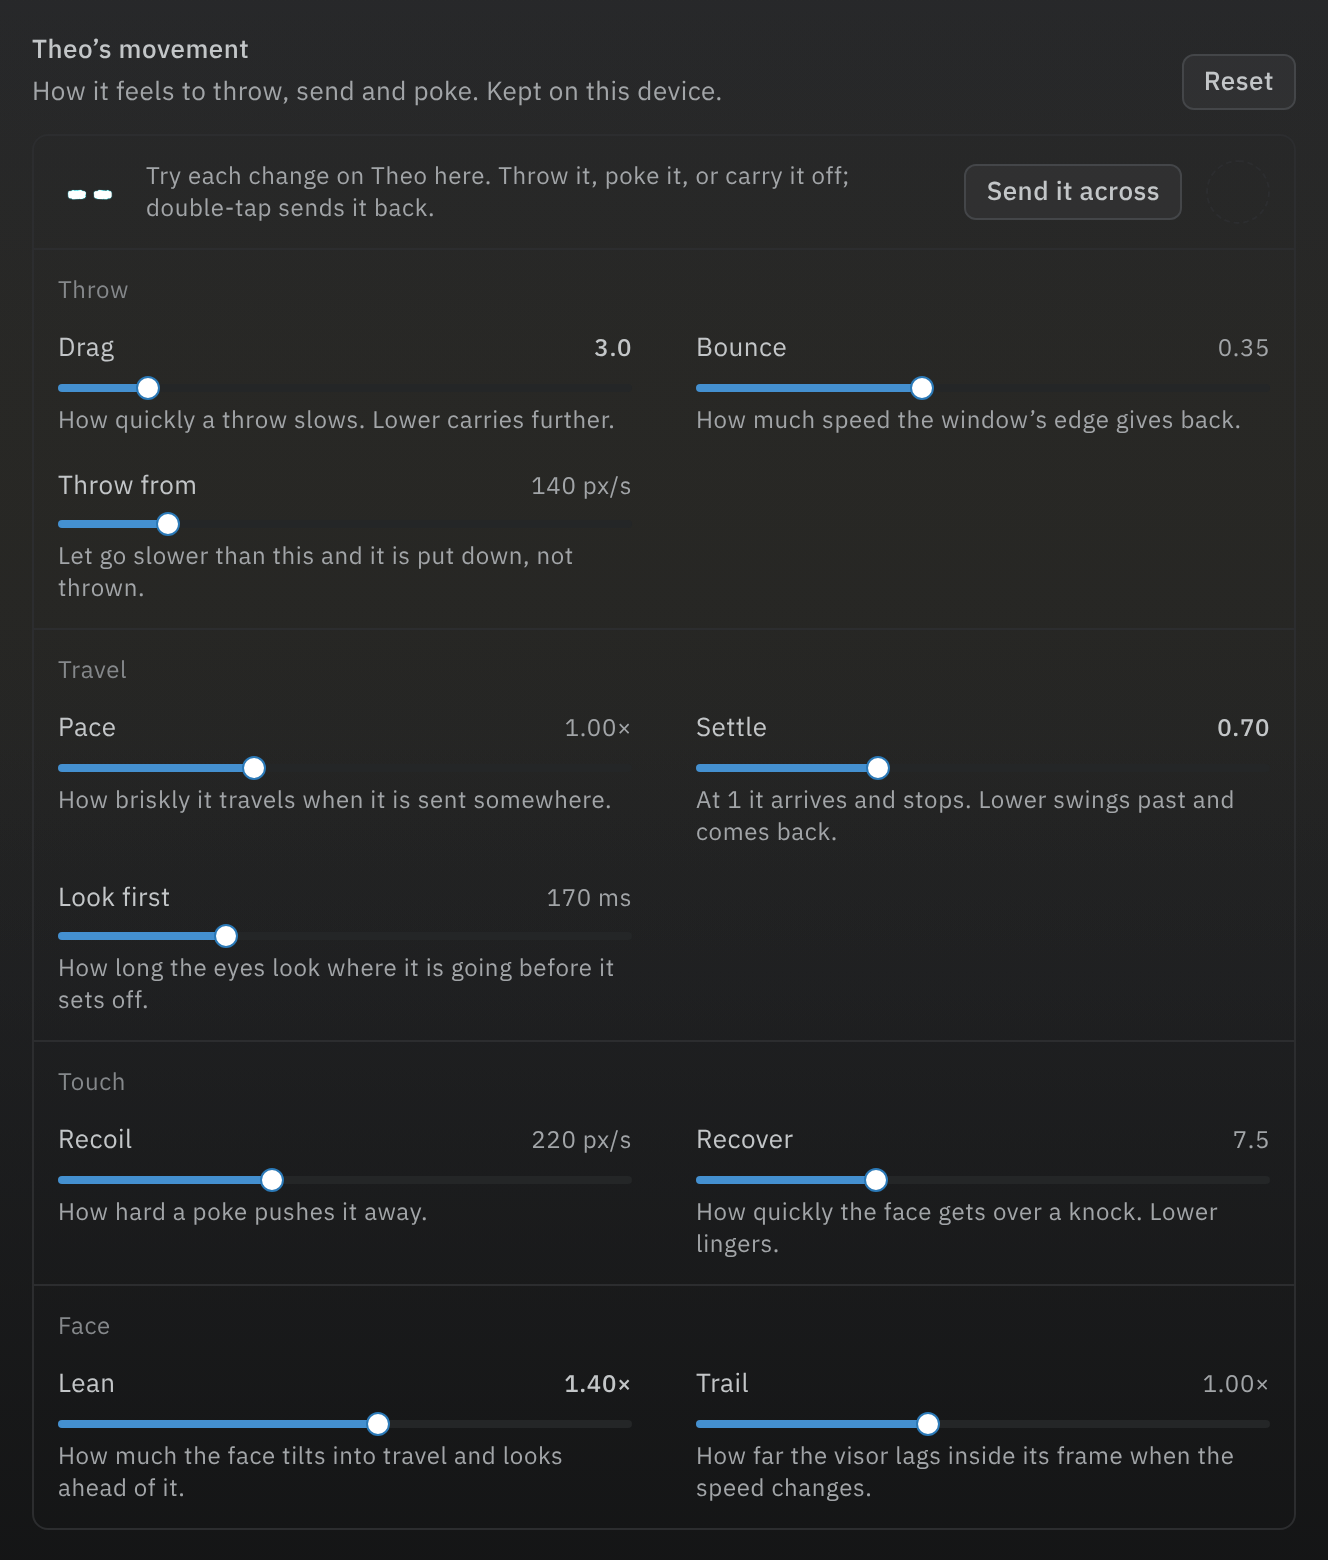
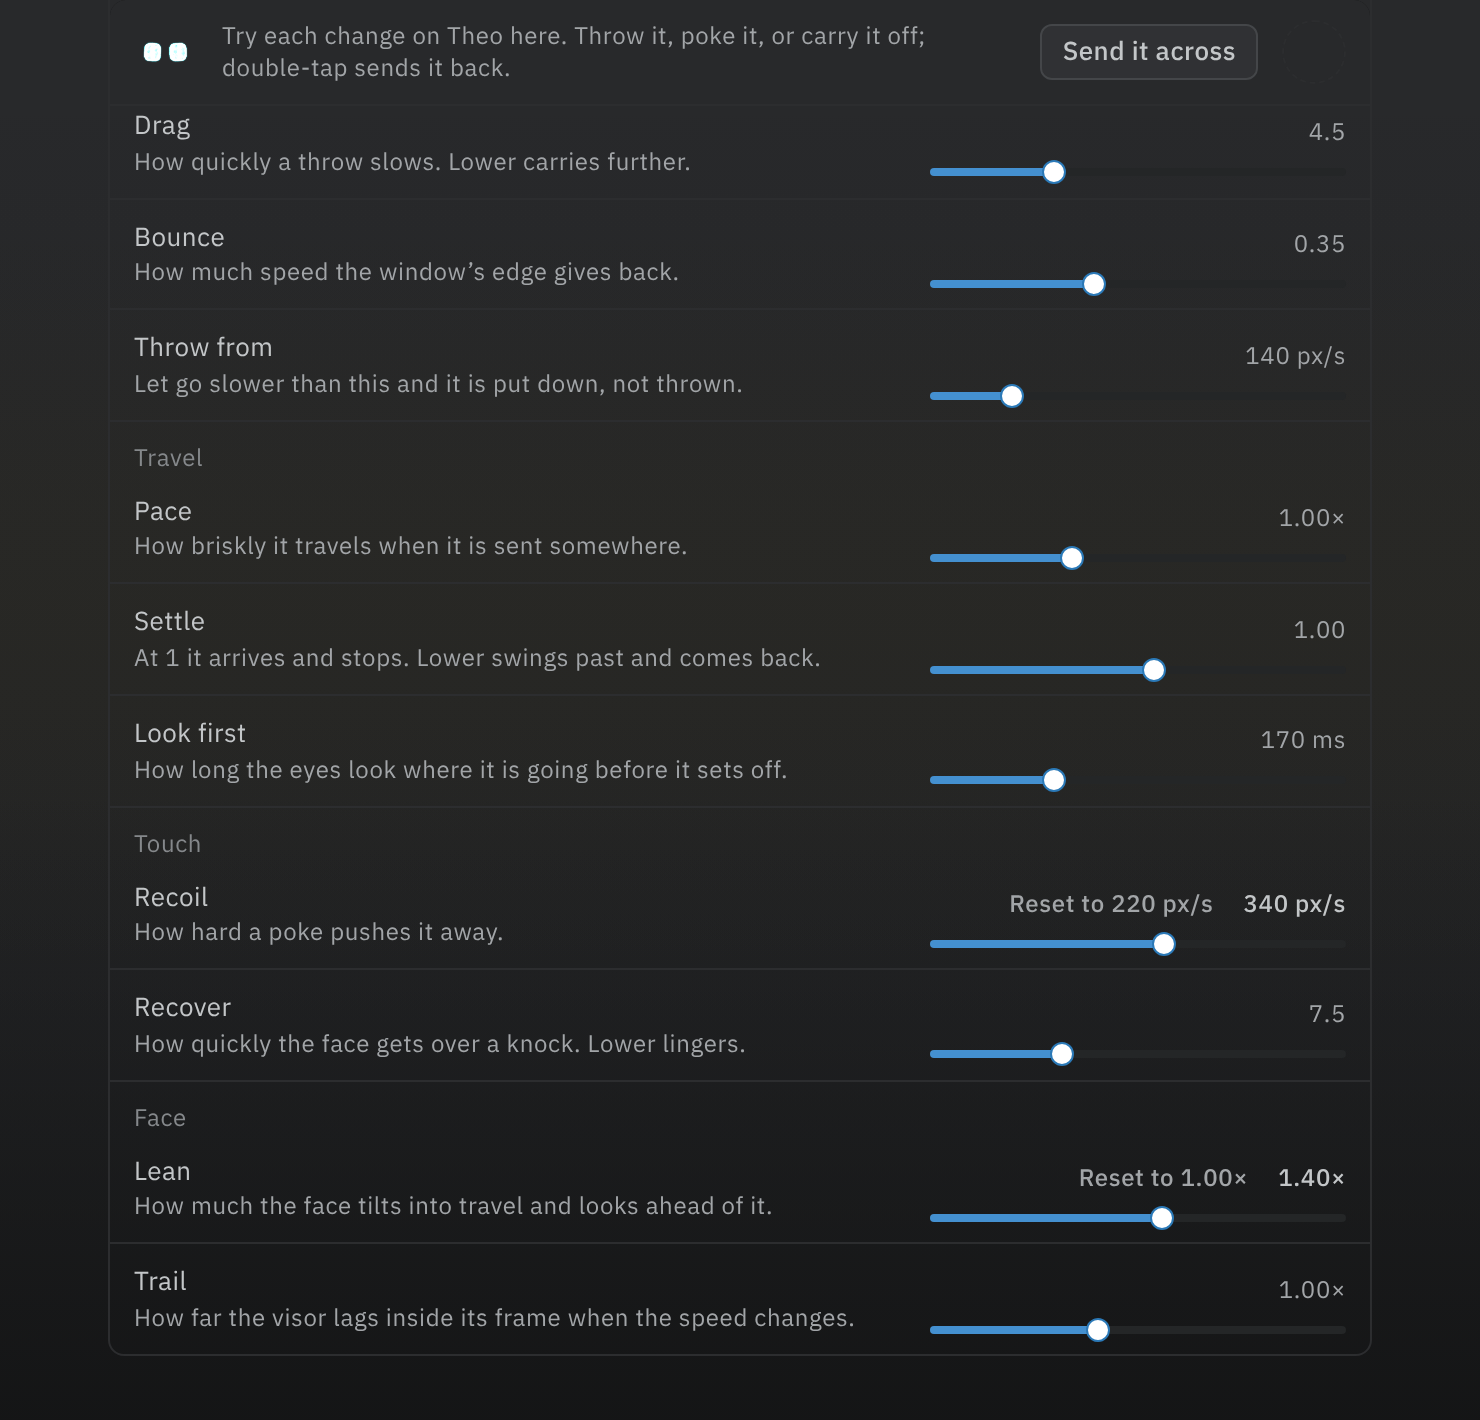
feat(face): lay Theo's movement panel out as Settings rows
The panel follows the settings frame (Twenty's layout) as the rest of
Settings does: one row for each setting, name and hint on the left, value
and slider on the right, under the name of its group.

- The strip Theo rests in stays at the top of the sheet while the rows
  scroll, so a change to the last row can still be tried on it.
- A changed row carries its own "Reset to <shipped value>"; the section's
  button is now "Reset all". The store's resetFeel takes one setting.

Claude-Session: https://claude.ai/code/session_01JfHnWFDvdCjcfPp38bT2qx

diff --git a/src/components/face/face-feel.tsx b/src/components/face/face-feel.tsx
@@ -1,13 +1,13 @@
-// SOURCING: lib/face/feel for the settings and their bounds, lib/figures for what the person chose of them; ui/slider with its label and value, laid out as the OpenUI slider view lays one out (components/artifacts/openui/views.tsx); the settings frame for the section. Settings sits outside the chat shell that mounts the figures (lib/theorem/runtime), so the face a person tries a change on is mounted here, with a slot for it to rest in as a reply's gutter has.
-import { Slider as SliderPrimitive } from '@base-ui/react/slider'
-import { useRef } from 'react'
+// SOURCING: lib/face/feel for the settings and their bounds, lib/figures for what the person chose of them; the settings frame for the section, its box and its rows, with ui/slider where a row's control sits; ui/button. The box is laid out as Twenty's settings lay out a box that has a preview: the part a change is tried on at the top, small labels naming the groups of rows under it. That part stays at the top of the sheet while the rows scroll (the box is let overflow for it). Settings sits outside the chat shell that mounts the figures (lib/theorem/runtime), so the face a person tries a change on is mounted here, with a slot for it to rest in as a reply's gutter has.
+import { useId, useRef } from 'react'
 import {
   SettingsBox,
+  SettingsRow,
   SettingsSection,
 } from '@/components/settings/settings-frame'
 import { Button } from '@/components/ui/button'
 import { Slider } from '@/components/ui/slider'
-import { FEEL_REST, FEEL_SPECS } from '@/lib/face/feel'
+import { FEEL_SPECS } from '@/lib/face/feel'
 import type { FeelSpec } from '@/lib/face/feel'
 import { theFace } from '@/lib/face/store'
 import { useFigures } from '@/lib/figures'
@@ -31,49 +31,89 @@ export function feelText({ step, unit }: FeelSpec, value: number) {
   return unit === '×' ? `${number}×` : `${number} ${unit}`
 }
 
-/** One setting: its name, its value, the slider, and what turning it does. */
-function FeelSlider({ spec }: { spec: FeelSpec }) {
+/** One setting as a row: what it is on the left; its value, the way back to what Theo ships with, and its slider on the right. */
+function FeelRow({ spec }: { spec: FeelSpec }) {
   const chosen = useFigures((state) => state.feel[spec.key])
   const setFeel = useFigures((state) => state.setFeel)
-  const value = chosen ?? FEEL_REST[spec.key]
+  const resetFeel = useFigures((state) => state.resetFeel)
+  const name = useId()
+  const value = chosen ?? spec.rest
+  const changed = value !== spec.rest
   return (
-    <div className="flex flex-col gap-1.5" data-feel={spec.key}>
-      <Slider
-        className="flex flex-col gap-2"
-        value={[value]}
-        min={spec.min}
-        max={spec.max}
-        step={spec.step}
-        onValueChange={(next) => {
-          const picked = Array.isArray(next) ? next[0] : next
-          // A step of a twentieth lands on 1.1500000000000001: keep what was meant.
-          if (typeof picked === 'number')
-            setFeel(spec.key, Number(picked.toFixed(places(spec.step))))
-        }}
-        getAriaValueText={(_, picked) => feelText(spec, picked)}
+    <div data-feel={spec.key}>
+      <SettingsRow
+        title={<span id={name}>{spec.label}</span>}
+        description={spec.hint}
       >
-        <div className="flex items-baseline justify-between gap-3 text-sm">
-          <SliderPrimitive.Label>{spec.label}</SliderPrimitive.Label>
-          <output
-            className={
-              chosen === undefined || chosen === spec.rest
-                ? 'text-xs tabular-nums text-ink-muted'
-                : 'text-xs font-medium tabular-nums text-ink'
-            }
-          >
-            {feelText(spec, value)}
-          </output>
+        <div className="flex w-52 shrink-0 flex-col gap-1.5">
+          <div className="flex h-6 items-center justify-end gap-1.5">
+            {changed && (
+              <Button
+                variant="ghost"
+                size="xs"
+                className="text-ink-muted"
+                onClick={() => resetFeel(spec.key)}
+              >
+                Reset to {feelText(spec, spec.rest)}
+              </Button>
+            )}
+            <output
+              className={
+                changed
+                  ? 'text-xs font-medium tabular-nums text-ink'
+                  : 'text-xs tabular-nums text-ink-muted'
+              }
+            >
+              {feelText(spec, value)}
+            </output>
+          </div>
+          <Slider
+            aria-labelledby={name}
+            value={[value]}
+            min={spec.min}
+            max={spec.max}
+            step={spec.step}
+            onValueChange={(next) => {
+              const picked = Array.isArray(next) ? next[0] : next
+              if (typeof picked === 'number')
+                setFeel(spec.key, Number(picked.toFixed(places(spec.step))))
+            }}
+            getAriaValueText={(_, picked) => feelText(spec, picked)}
+          />
         </div>
-      </Slider>
-      <p className="text-xs text-ink-muted">{spec.hint}</p>
+      </SettingsRow>
+    </div>
+  )
+}
+
+/** One group of settings: its name, then its rows. */
+function FeelGroup({
+  group,
+  specs,
+}: {
+  group: string
+  specs: ReadonlyArray<FeelSpec>
+}) {
+  const name = useId()
+  return (
+    <div role="group" aria-labelledby={name}>
+      <p id={name} className="px-3 pt-2.5 text-xs text-ink-faint">
+        {group}
+      </p>
+      <div className="divide-y divide-separator">
+        {specs.map((spec) => (
+          <FeelRow key={spec.key} spec={spec} />
+        ))}
+      </div>
     </div>
   )
 }
 
 /**
- * How Theo's movement feels, for the person to set: every number of
- * lib/face/feel as a slider, a way back to how it ships, and Theo itself on
- * the page to throw, poke and send across with each change in force.
+ * How Theo's movement feels, as a section of Settings: a row for each
+ * setting, each with its own way back, and Theo on the page to try a change
+ * on, in a strip that stays in view while the rows scroll. A change takes
+ * hold as the thumb moves, on a throw already in the air too.
  */
 export function FaceFeel() {
   const changed = useFigures((state) =>
@@ -85,7 +125,7 @@ export function FaceFeel() {
   const resetFeel = useFigures((state) => state.resetFeel)
   const spot = useRef<HTMLSpanElement | null>(null)
 
-  /** Sends Theo to the far end of the strip; it comes back by itself. */
+  /** Sends Theo to the spot at the strip's far end; it comes back by itself. */
   const send = () => {
     const rect = spot.current?.getBoundingClientRect()
     if (!rect) return
@@ -113,14 +153,17 @@ export function FaceFeel() {
           variant="outline"
           size="sm"
           disabled={!changed}
-          onClick={resetFeel}
+          onClick={() => resetFeel()}
         >
-          Reset
+          Reset all
         </Button>
       }
     >
-      <SettingsBox>
-        <div className="flex items-center gap-3 px-3 py-3" data-slot="feel-try">
+      <SettingsBox className="divide-y-0 overflow-visible">
+        <div
+          className="sticky top-0 z-10 flex items-center gap-3 rounded-t-lg border-b border-separator bg-sheet px-3 py-2.5"
+          data-slot="feel-try"
+        >
           <span
             aria-hidden
             data-face-perch="live"
@@ -139,18 +182,11 @@ export function FaceFeel() {
             className="size-8 shrink-0 rounded-full border border-dashed border-separator"
           />
         </div>
-        {GROUPS.map(({ group, specs }) => (
-          <fieldset key={group} className="flex flex-col gap-3 px-3 py-3">
-            <legend className="float-left text-xs text-ink-faint">
-              {group}
-            </legend>
-            <div className="grid gap-x-8 gap-y-4 sm:grid-cols-2">
-              {specs.map((spec) => (
-                <FeelSlider key={spec.key} spec={spec} />
-              ))}
-            </div>
-          </fieldset>
-        ))}
+        <div className="divide-y divide-separator">
+          {GROUPS.map(({ group, specs }) => (
+            <FeelGroup key={group} group={group} specs={specs} />
+          ))}
+        </div>
       </SettingsBox>
       <FaceStage />
     </SettingsSection>

diff --git a/src/lib/figures.ts b/src/lib/figures.ts
@@ -48,8 +48,8 @@ interface FiguresState {
   feel: Partial<Feel>
   /** Changes one setting of the feel; a value outside its bounds is brought inside. */
   setFeel: (key: FeelKey, value: number) => void
-  /** Everything about the feel as Theo ships. */
-  resetFeel: () => void
+  /** One setting of the feel as Theo ships; with no setting named, all of them. */
+  resetFeel: (key?: FeelKey) => void
 }
 
 /**
@@ -76,9 +76,11 @@ export const useFigures = create<FiguresState>()(
         tune(feel)
         set({ feel })
       },
-      resetFeel: () => {
-        tune()
-        set({ feel: {} })
+      resetFeel: (key) => {
+        const feel: Partial<Feel> = key === undefined ? {} : { ...get().feel }
+        if (key !== undefined) delete feel[key]
+        tune(feel)
+        set({ feel })
       },
     }),
     {

diff --git a/src/lib/face/feel.test.ts b/src/lib/face/feel.test.ts
@@ -113,6 +113,18 @@ describe('the feel', () => {
     expect(useFigures.getState().feel).toEqual({})
     expect(FEEL).toEqual(FEEL_REST)
   })
+
+  test('one setting goes back to what Theo ships with and the others stay', () => {
+    const figures = useFigures.getState()
+    figures.setFeel('drag', 9)
+    figures.setFeel('pace', 1.5)
+    useFigures.getState().resetFeel('drag')
+    expect(useFigures.getState().feel).toEqual({ pace: 1.5 })
+    expect(FEEL.drag).toBe(FEEL_REST.drag)
+    expect(FEEL.pace).toBe(1.5)
+    useFigures.getState().resetFeel('drag')
+    expect(useFigures.getState().feel).toEqual({ pace: 1.5 })
+  })
 })
 
 describe('what the feel does to the body', () => {

diff --git a/docs/plans/theo-body.md b/docs/plans/theo-body.md
@@ -109,6 +109,12 @@ ships with.
   mounts the figures, so the panel mounts the face itself, with a slot for it
   to rest in, and a button that sends it across the strip and lets it come
   back, for the travel settings. Throwing and poking are done on Theo.
+- **The panel is laid out as the rest of Settings is.** One row for each
+  setting: its name and hint on the left, its value and slider on the right,
+  under the name of its group. A changed row carries its own reset, which
+  names the value Theo ships with; Reset all is the section's. The strip Theo
+  rests in holds the top of the sheet while the rows scroll, so a change to
+  the last row can still be tried on it.
 
 The world steps at Rapier's default 1/60 s. Frames feed an accumulator; a
 long frame runs at most five steps and drops the rest, so a tab that was in
@@ -223,7 +229,7 @@ src/lib/face/
   book.ts         the performance "visit"
 src/components/face/
   driver.ts       loads the body, moves it by priority (hand, travel, coast, layout), tells the face
-  face-feel.tsx   the panel: a slider for each setting, Reset, and Theo to try them on
+  face-feel.tsx   the panel: a row for each setting with its own way back, Reset all, and Theo to try them on
 src/lib/figures.ts                              keeps what the person changed of the feel
 src/routes/settings/appearance.tsx              shows the panel when Theo is on
 src/components/artifacts/artifact-message.tsx   the card says it is a perch
@@ -233,7 +239,7 @@ src/stories/registry.tsx                        the story face-visit
 ## Tests and evidence
 
 **Execution correctness** (`bun test src/lib/face`, 34 of its tests came with
-the body and 15 with the feel):
+the body and 16 with the feel):
 
 - the body (21, against Rapier itself): a trip rests exactly on its anchor
   with a small overshoot; a shorter `over` arrives sooner; a moving anchor is
@@ -252,10 +258,11 @@ the body and 15 with the feel):
   different reaction calm and wound up; a throw is noticed; nothing the body
   does produces a run event; asleep ignores `body.*`; reduced motion moves
   nothing; `artifact` compiles as a place and `visit` looks before it goes;
-- the feel (15): every setting ships inside its bounds; a value outside them
+- the feel (16): every setting ships inside its bounds; a value outside them
   is brought inside and a non-number refused; tuning lays what is given over
   what ships and counts a revision only when something changed; the store
-  keeps only what was changed and Reset empties it; less drag carries a throw
+  keeps only what was changed, one setting can be put back alone and Reset
+  all empties it; less drag carries a throw
   further; the throw threshold decides throw or drop; more bounce comes
   further back off the edge; pace changes when a trip arrives; a looser
   settle swings past and still rests exactly; a change takes hold of a trip
@@ -287,12 +294,14 @@ The panel, at `/settings/appearance` in the same browser:
 | Pace 2×, Settle 0.3, Look first 470 ms | sets off about 350 ms later, swings 206 px past, and still comes back |
 | Sliders by keyboard                    | each press is one step; the value and the stored setting follow       |
 | Reload                                 | the three settings are in force again before anything is touched      |
-| Reset                                  | every slider as shipped, nothing kept, the button disabled            |
+| One row’s “Reset to”                   | that setting as shipped and no longer kept; the others stay           |
+| Scrolled to the last row               | the strip holds the top of the sheet, with Theo still on its slot     |
+| Reset all                              | every slider as shipped, nothing kept, the button disabled            |
 
 Renders, under `docs/plans/evidence/theo-body/`: `visit.png` (looking,
 travelling, arrived, looking it over), `thrown.png` (carried, in flight,
-against the edge, at rest) and `tuning.png` (the panel, dark theme, three
-settings changed).
+against the edge, at rest) and `tuning.png` (the panel, dark theme, scrolled
+to its last rows, two settings changed).
 
 **How the throws were made.** That page runs at about 13 frames a second and
 delivers events 75 to 190 ms apart, so a real-time mouse gesture cannot throw

diff --git a/docs/plans/evidence/ledger.md b/docs/plans/evidence/ledger.md
@@ -41,6 +41,6 @@ Reference hashes (sha256):
 - `renders/ide-workspace-board.png` (`ee02fd61…`): the IDE screen before (`0ccabd3f…`) and after (`68b177ab…`), each at 1600x1000 against the stub Theorem, taken at 2x in four quadrants in the built-in browser with Kit held in place. The board marks the sessions sidebar, the inline App beside the removed agent terminal, and the file chip, with the Mobbin screens behind each. It is a before and after, not a diff against the Devin refs: Devin's palette was deliberately not taken, so a pixel diff would measure that.
 - The coding workspace has no story yet. Theia runs in its own frame with its own fetch, which the story's fake Theorem does not answer, so it was checked in the app against a stub Theorem instead.
 - Theo has no collage. Its reference is a recording that is not in this repository, so there is nothing committed to set a story beside. The renders under `theo-face/` were taken in headless Chromium on software WebGL at 2x: they show that it draws and what each performance looks like, not how it moves or how it reads to a person.
-- Theo's body has no collage either: it was drawn to a note, not a picture. The strips under `theo-body/` are frames of the story `face-visit` and of `face-in-shell` in the same headless Chromium, with the throw made by pointer events dispatched in the page, since that page is too slow for a real-time gesture to throw anything. They show where the figure goes, not how the motion feels. `theo-body/tuning.png` is the panel under Settings, Appearance, where the feel is set, in the dark theme with three settings changed; the page is this app's own and nothing in it is from a reference.
+- Theo's body has no collage either: it was drawn to a note, not a picture. The strips under `theo-body/` are frames of the story `face-visit` and of `face-in-shell` in the same headless Chromium, with the throw made by pointer events dispatched in the page, since that page is too slow for a real-time gesture to throw anything. They show where the figure goes, not how the motion feels. `theo-body/tuning.png` is the panel under Settings, Appearance, where the feel is set, in the dark theme, scrolled to its last rows with two settings changed. Its layout follows Twenty's settings as the rest of Settings does (rows in a box, the part a change is tried on at the top of it); where a slider, its value and a reset sit in a row was read from other products' settings screens on Mobbin (Greptile, Hume AI, PlanetScale, Krea AI, Shop, Dialpad, Linktree, beehiiv). Only the arrangement was taken: no picture, colour, type or wording of theirs is in the page or in this repository.
 
 Fidelity seals are made by a person who has opened the collage. None has been made yet.

diff --git a/docs/plans/theo-face.md b/docs/plans/theo-face.md
@@ -453,7 +453,7 @@ without a jump, and reads back that it was interrupted.
 ## Tests and evidence
 
 **Execution correctness** (`bun test src/lib/face src/lib/figures.test.ts`,
-129 tests, 34 of them the body's and 15 the feel's, listed in `theo-body.md`):
+130 tests, 34 of them the body's and 16 the feel's, listed in `theo-body.md`):
 
 - channels: every feature has every param; a new feature gets channels of its
   own up to the limit; a near miss is named;
